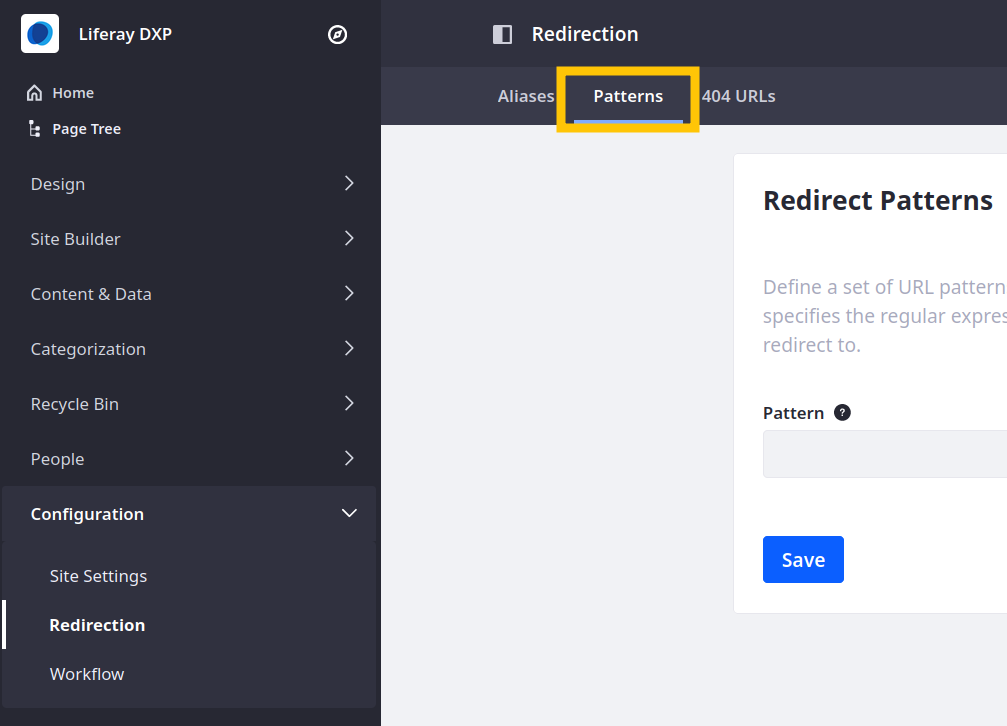
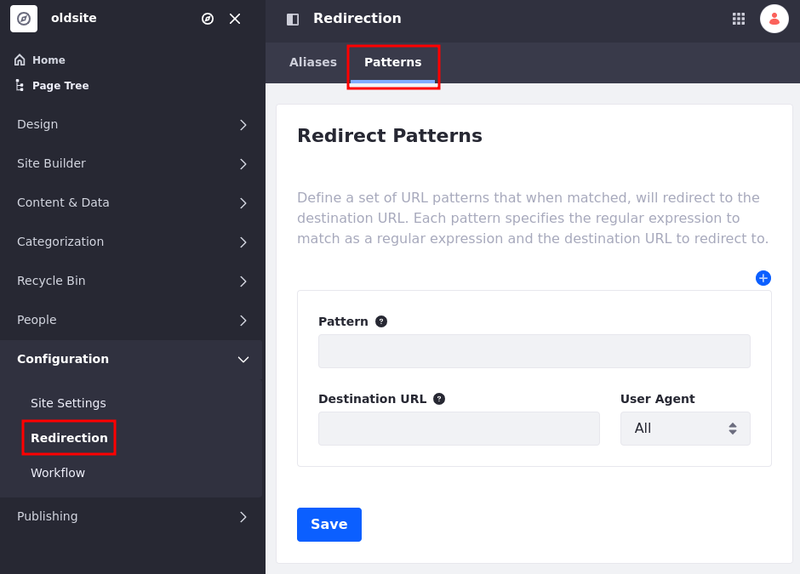
LRDOCS-12245 added info - redirecting while changing domains

diff --git a/docs/dxp/latest/en/site-building/site-settings/managing-site-urls/setting-up-redirects-and-404-tracking/using-pattern-redirects.md b/docs/dxp/latest/en/site-building/site-settings/managing-site-urls/setting-up-redirects-and-404-tracking/using-pattern-redirects.md
@@ -8,9 +8,9 @@ uuid: 86f08f77-e511-4054-86eb-13cf4b3dd3ba
 Pattern redirects use regular expressions to define patterns for multiple source URLs and their replacements. Consequently, they are best used when you have large groups of URLs to map to new URLs. You can create bulk redirects in a web server like Nginx or Apache, but since this is an out-of-the-box feature, you can set up pattern redirects directly in Liferay.
 
 ```{important}
-Because Liferay interprets redirect patterns as friendly URLs based on the current site's friendly URL, you cannot use redirect patterns with non-friendly URLs (e.g., virtual host names, port numbers) or redirect to pages outside of the current Liferay site (i.e., redirect from page A in site A to page B in site B).
+Because Liferay interprets redirect patterns as friendly URLs based on the current site's friendly URL, you cannot use redirect patterns with non-friendly URLs (e.g., virtual host names, port numbers) or redirect to pages outside of the current site's scope (i.e., redirect from page A in site A to page B in site B).
 
-However, you can redirect to external websites by adding the protocol before the address. For example, use http://www.externalwebsite.com to redirect to the external website.
+However, you can redirect to external websites by adding the protocol before the address. (e.g., use http://www.externalwebsite.com to redirect to the external website).
 
 Depending on the regular expression you use, pattern redirects can be slower than [alias redirects](./using-alias-redirects.md) and result in more URL matches than intended. For these reasons, alias redirects are recommended when possible. See [Setting Up Redirects and 404 Tracking](../setting-up-redirects-and-404-tracking.md) for more information.
 ```
@@ -42,6 +42,26 @@ Depending on the regular expression you use, pattern redirects can be slower tha
 ```{warning}
 Avoid creating circular redirects. These are easy to create when defining redirects for content friendly URLs (e.g. redirecting between different friendly URLs for the same content). Liferay cannot reliably detect these loops.
 ```
+
+### Creating Pattern Redirects: Changing Domains
+
+If you have two domains: https://www.old-site.com and https://www.new-site.com. You can redirect a page from one domain to the other,
+
+1. Navigate to https://www.old-site.com.
+
+1. Open the *Site Menu* ( ![Site Menu](../../../../images/icon-product-menu.png) ) and go to *Configuration* &rarr; *Redirection*.
+
+1. Under Pattern, add `^(.*)`.
+
+   This regular expression captures the entire URL path of the source request.
+
+1. Under Destination URL, add `https://www.new-site.com/$0`.
+
+   `$0` appends the entire captured URL path from the source to the destination URL.
+
+1. Click *Save*.
+
+Now, if you go to https://www.old-site.com/examplepage, you are redirected to https://www.new-site.com/examplepage.
 
 ## Understanding Pattern Redirects
 
